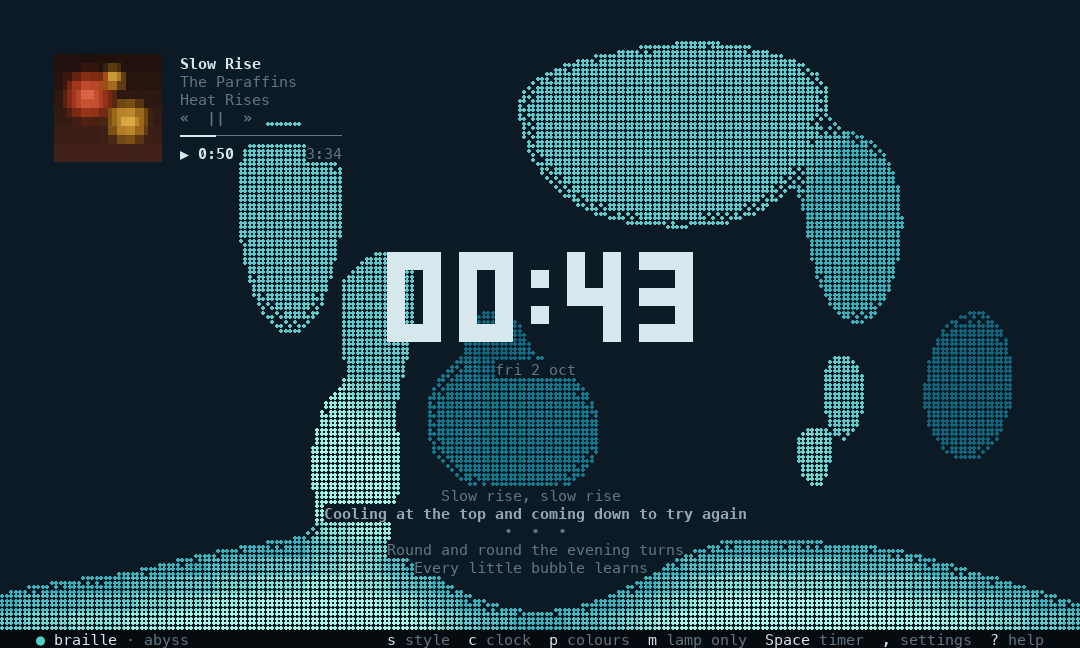
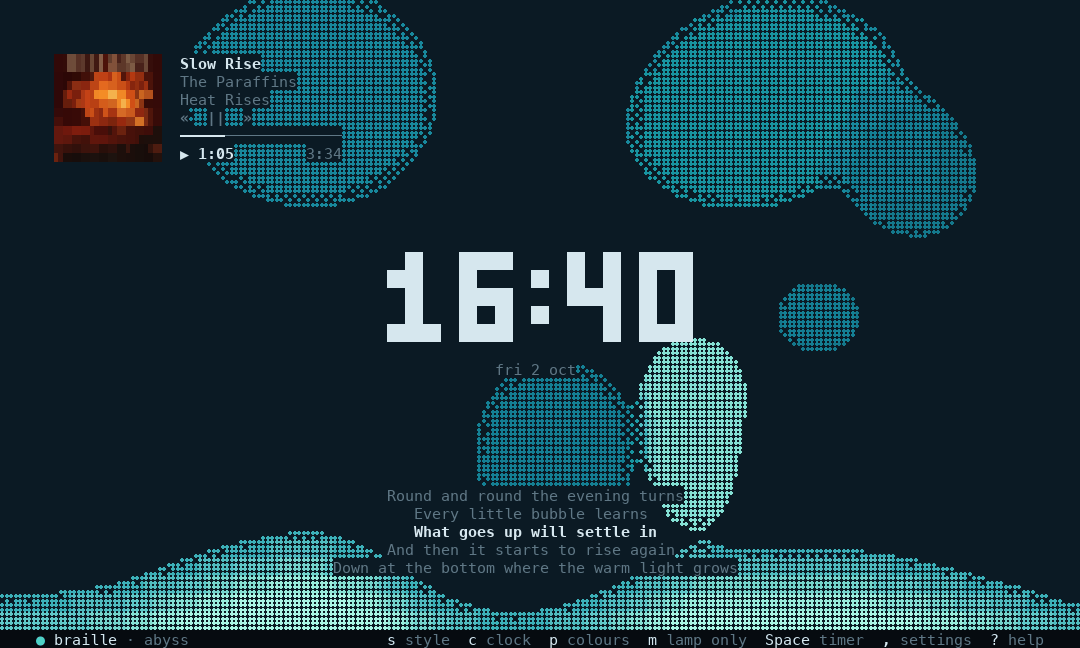
lava-ch5: embed original Sunburst demo album covers

diff --git a/src/demo.rs b/src/demo.rs
@@ -1,14 +1,13 @@
 //! `--demo` (hidden): a made-up player for screenshots and the README
 //! demo, so no real song, cover or lyric ever lands in a committed image.
 //!
-//! Three invented tracks by invented artists, each with an abstract cover
-//! drawn here (handed to the art worker through [`art::stash`], so nothing
+//! Three invented tracks by invented artists, each with an original cover
+//! embedded here (handed to the art worker through [`art::stash`], so nothing
 //! is downloaded) and invented synced lyrics served by a canned LRCLIB
 //! ([`Canned`]: nothing goes to lrclib.net and nothing is cached). The
 //! player is a [`FakeSource`]: it plays in real time and every player key
 //! works. The Spotify library stays off (no Client ID, no keyring).
 
-use std::io::Cursor;
 use std::sync::Arc;
 use std::time::{Duration, Instant};
 
@@ -17,13 +16,13 @@ use crate::lyrics::client::{Http, Lrclib, Reply};
 use crate::media::{FakeSource, Snapshot, Status, Track, art};
 
 /// Title (letters and spaces only: it's matched in the lookup URL),
-/// artist, album, length in seconds, the cover's two hues, the lyrics.
+/// artist, album, length in seconds, the cover's encoded bytes, the lyrics.
 struct Song {
     title: &'static str,
     artist: &'static str,
     album: &'static str,
     secs: u64,
-    hues: (f32, f32),
+    cover: &'static [u8],
     words: &'static [&'static str],
 }
 
@@ -33,7 +32,7 @@ const SONGS: &[Song] = &[
         artist: "The Paraffins",
         album: "Heat Rises",
         secs: 214,
-        hues: (12.0, 40.0),
+        cover: include_bytes!("../assets/demo/heat-rises-bloom.jpg"),
         words: &[
             "Down at the bottom where the warm light grows",
             "A little wax is waking, and it slowly goes",
@@ -56,7 +55,7 @@ const SONGS: &[Song] = &[
         artist: "The Paraffins",
         album: "Heat Rises",
         secs: 187,
-        hues: (300.0, 330.0),
+        cover: include_bytes!("../assets/demo/heat-rises-moons.jpg"),
         words: &[
             "Two slow shapes in the purple glow",
             "Drifting closer, moving slow",
@@ -74,7 +73,7 @@ const SONGS: &[Song] = &[
         artist: "Wax and Wane",
         album: "Lamplight",
         secs: 402,
-        hues: (180.0, 150.0),
+        cover: include_bytes!("../assets/demo/lamplight-window.jpg"),
         words: &[
             "Late at night the room is blue",
             "And the lamp is humming through",
@@ -101,7 +100,7 @@ pub fn source(now: Instant) -> FakeSource {
             artist: song.artist.into(),
             album: song.album.into(),
             duration: Duration::from_secs(song.secs),
-            artwork_url: art::stash(cover(song.hues)).unwrap_or_default(),
+            artwork_url: art::stash(song.cover.to_vec()).unwrap_or_default(),
         })
         .collect();
     let snapshot = Snapshot {
@@ -173,50 +172,6 @@ fn lrc(song: &Song) -> String {
     out
 }
 
-/// An abstract cover, 400 px square, as PNG: a dark gradient in the first
-/// hue with three soft glowing discs in both.
-fn cover((a, b): (f32, f32)) -> Vec<u8> {
-    const N: u32 = 400;
-    let discs = [
-        (0.32, 0.38, 0.26, a),
-        (0.68, 0.62, 0.22, b),
-        (0.55, 0.22, 0.12, b),
-    ];
-    let image = image::RgbImage::from_fn(N, N, |x, y| {
-        let (u, v) = (x as f32 / N as f32, y as f32 / N as f32);
-        let mut rgb = hsl(a, 0.45, 0.08 + 0.10 * v);
-        for &(cx, cy, r, hue) in &discs {
-            let d = ((u - cx).powi(2) + (v - cy).powi(2)).sqrt() / r;
-            let glow = (1.0 - d).clamp(0.0, 1.0).powf(0.6);
-            let disc = hsl(hue, 0.85, 0.35 + 0.30 * glow);
-            for (c, d) in rgb.iter_mut().zip(disc) {
-                *c += (d - *c) * glow;
-            }
-        }
-        image::Rgb(rgb.map(|c| (c.clamp(0.0, 1.0) * 255.0).round() as u8))
-    });
-    let mut png = Vec::new();
-    let _ = image.write_to(&mut Cursor::new(&mut png), image::ImageFormat::Png);
-    png
-}
-
-/// HSL (hue in degrees) to RGB in 0..=1.
-fn hsl(h: f32, s: f32, l: f32) -> [f32; 3] {
-    let c = (1.0 - (2.0 * l - 1.0).abs()) * s;
-    let h = h.rem_euclid(360.0) / 60.0;
-    let x = c * (1.0 - (h % 2.0 - 1.0).abs());
-    let (r, g, b) = match h as u32 {
-        0 => (c, x, 0.0),
-        1 => (x, c, 0.0),
-        2 => (0.0, c, x),
-        3 => (0.0, x, c),
-        4 => (x, 0.0, c),
-        _ => (c, 0.0, x),
-    };
-    let m = l - c / 2.0;
-    [r + m, g + m, b + m]
-}
-
 #[cfg(test)]
 mod tests {
     use super::*;
@@ -226,8 +181,13 @@ mod tests {
     fn every_song_has_a_cover_and_synced_lyrics() {
         let client = Lrclib::with_http(Canned, "demo:");
         for song in SONGS {
-            let png = cover(song.hues);
-            assert!(art::Art::decode(&png, false).is_ok(), "{}", song.title);
+            assert!(
+                art::Art::decode(song.cover, false).is_ok(),
+                "{}",
+                song.title
+            );
+            let pixels = art::Art::decode(song.cover, true).expect("full-picture cover");
+            assert!(pixels.hires.is_some(), "{}", song.title);
             let track = LyricsTrack {
                 title: song.title.into(),
                 artist: song.artist.into(),

diff --git a/docs/screenshots/capture.py b/docs/screenshots/capture.py
@@ -19,8 +19,8 @@ Scratch configs say `[ui] welcome = false` (the card would cover every
 shot) unless the shot is of the welcome card.
 
 `music`, `music-lava` and `spotify-setup` run with the hidden `--demo`
-flag: a made-up player with invented songs, an abstract cover drawn by
-the app and invented lyrics, so they are safe to commit.
+flag: a made-up player with invented songs, original embedded covers
+and invented lyrics, so they are safe to commit.
 
 The live sets below read the real player instead:
 `live` (the now-playing widget, beside the lamp and on the lava) and

diff --git a/assets/demo/README.md b/assets/demo/README.md
@@ -1,0 +1,17 @@
+# Demo album covers
+
+Original artwork for LavaTUI's invented `--demo` songs. Generated with
+GPT Image 2.5 Sunburst through Venice (`gpt-image-2-5-sunburst`), then
+reduced to 400 × 400 JPEGs. The exact prompts and generation settings
+are in [prompts.json](prompts.json). No existing artwork was supplied.
+
+| File | Invented artist / album | Subject |
+| --- | --- | --- |
+| `heat-rises-bloom.jpg` | The Paraffins / Heat Rises | An amber flower above a volcanic ridge |
+| `heat-rises-moons.jpg` | The Paraffins / Heat Rises | Two violet moons joining above a pool |
+| `lamplight-window.jpg` | Wax and Wane / Lamplight | A warm window among blue night foliage |
+
+The first two are alternate sleeves for the same invented album, used
+for “Slow Rise” and “Blob Merge” respectively. “Warm Light Falling” uses
+the window sleeve. The art is embedded in the binary; demo playback
+does not call Venice or download the images.

diff --git a/docs/architecture.md b/docs/architecture.md
@@ -250,10 +250,10 @@ Pillow). The animated demo is `docs/screenshots/demo.tape` (vhs, then
 gifsicle; the tape has the exact commands and the size budget).
 
 Pictures with music use the hidden `--demo` flag (`src/demo.rs`): a
-made-up player with invented songs and artists, an abstract cover drawn
-by the app and invented lyrics served by a canned LRCLIB. Nothing goes to
-the network, no account is touched, and no real album art or song ends
-up in a committed image.
+made-up player with invented songs and artists, original covers embedded
+from `assets/demo/` and invented lyrics served by a canned LRCLIB.
+Nothing goes to the network, no account is touched, and no real album
+art or song ends up in a committed image.
 
 ```sh
 cargo build --release
